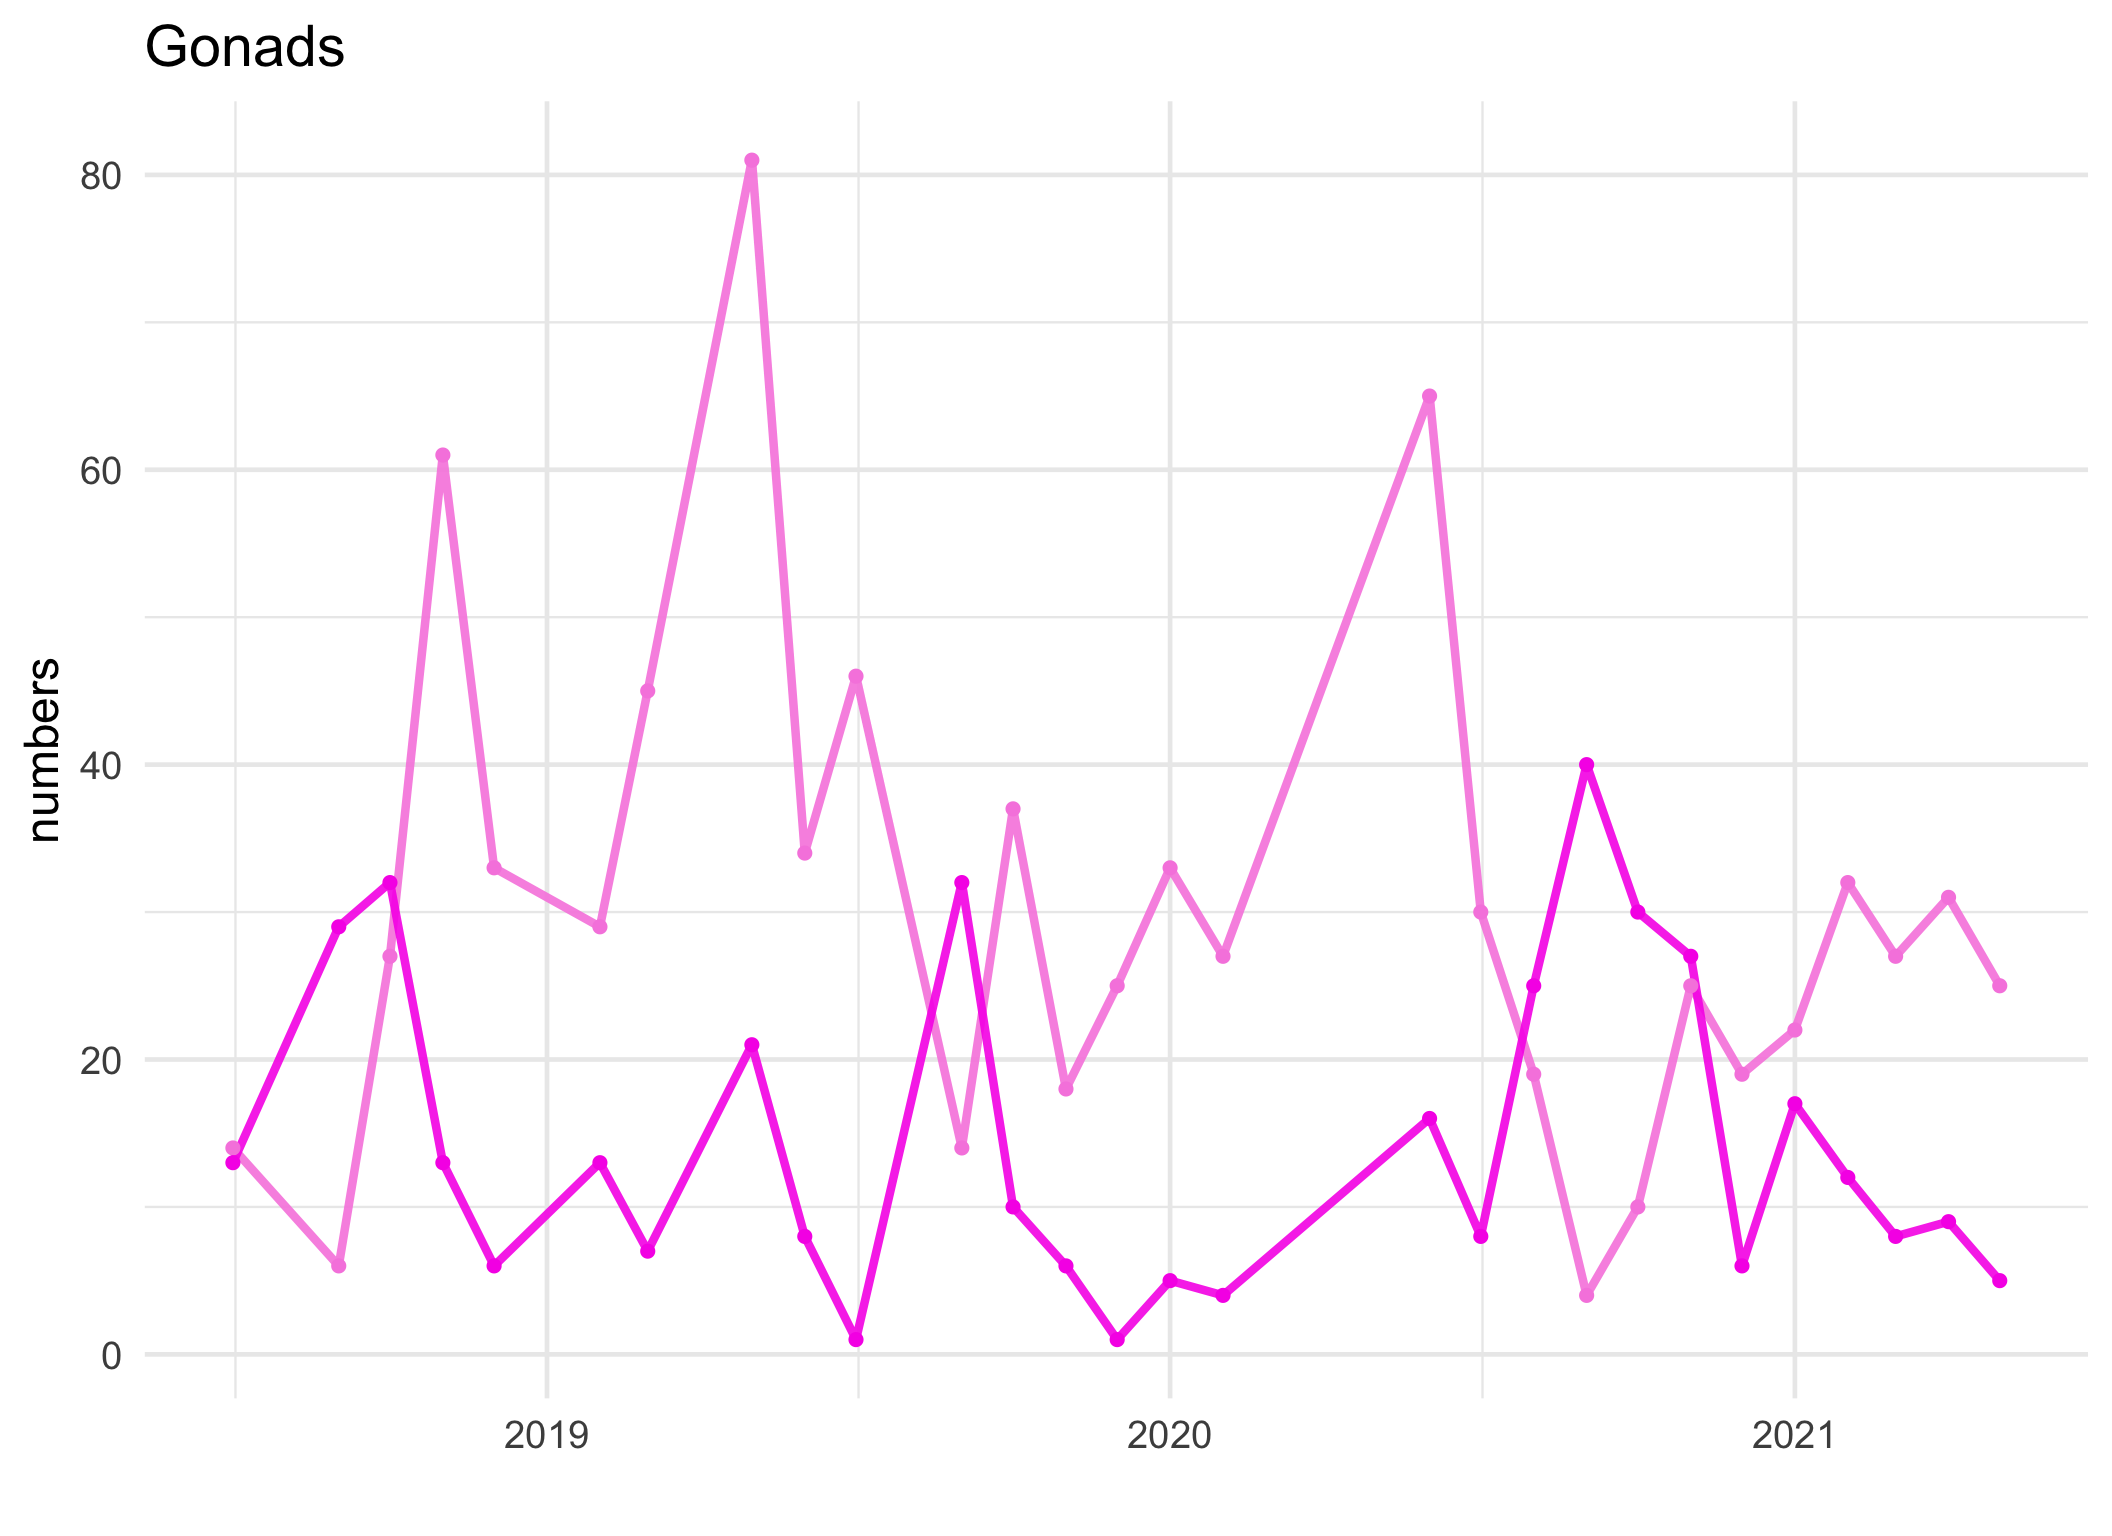
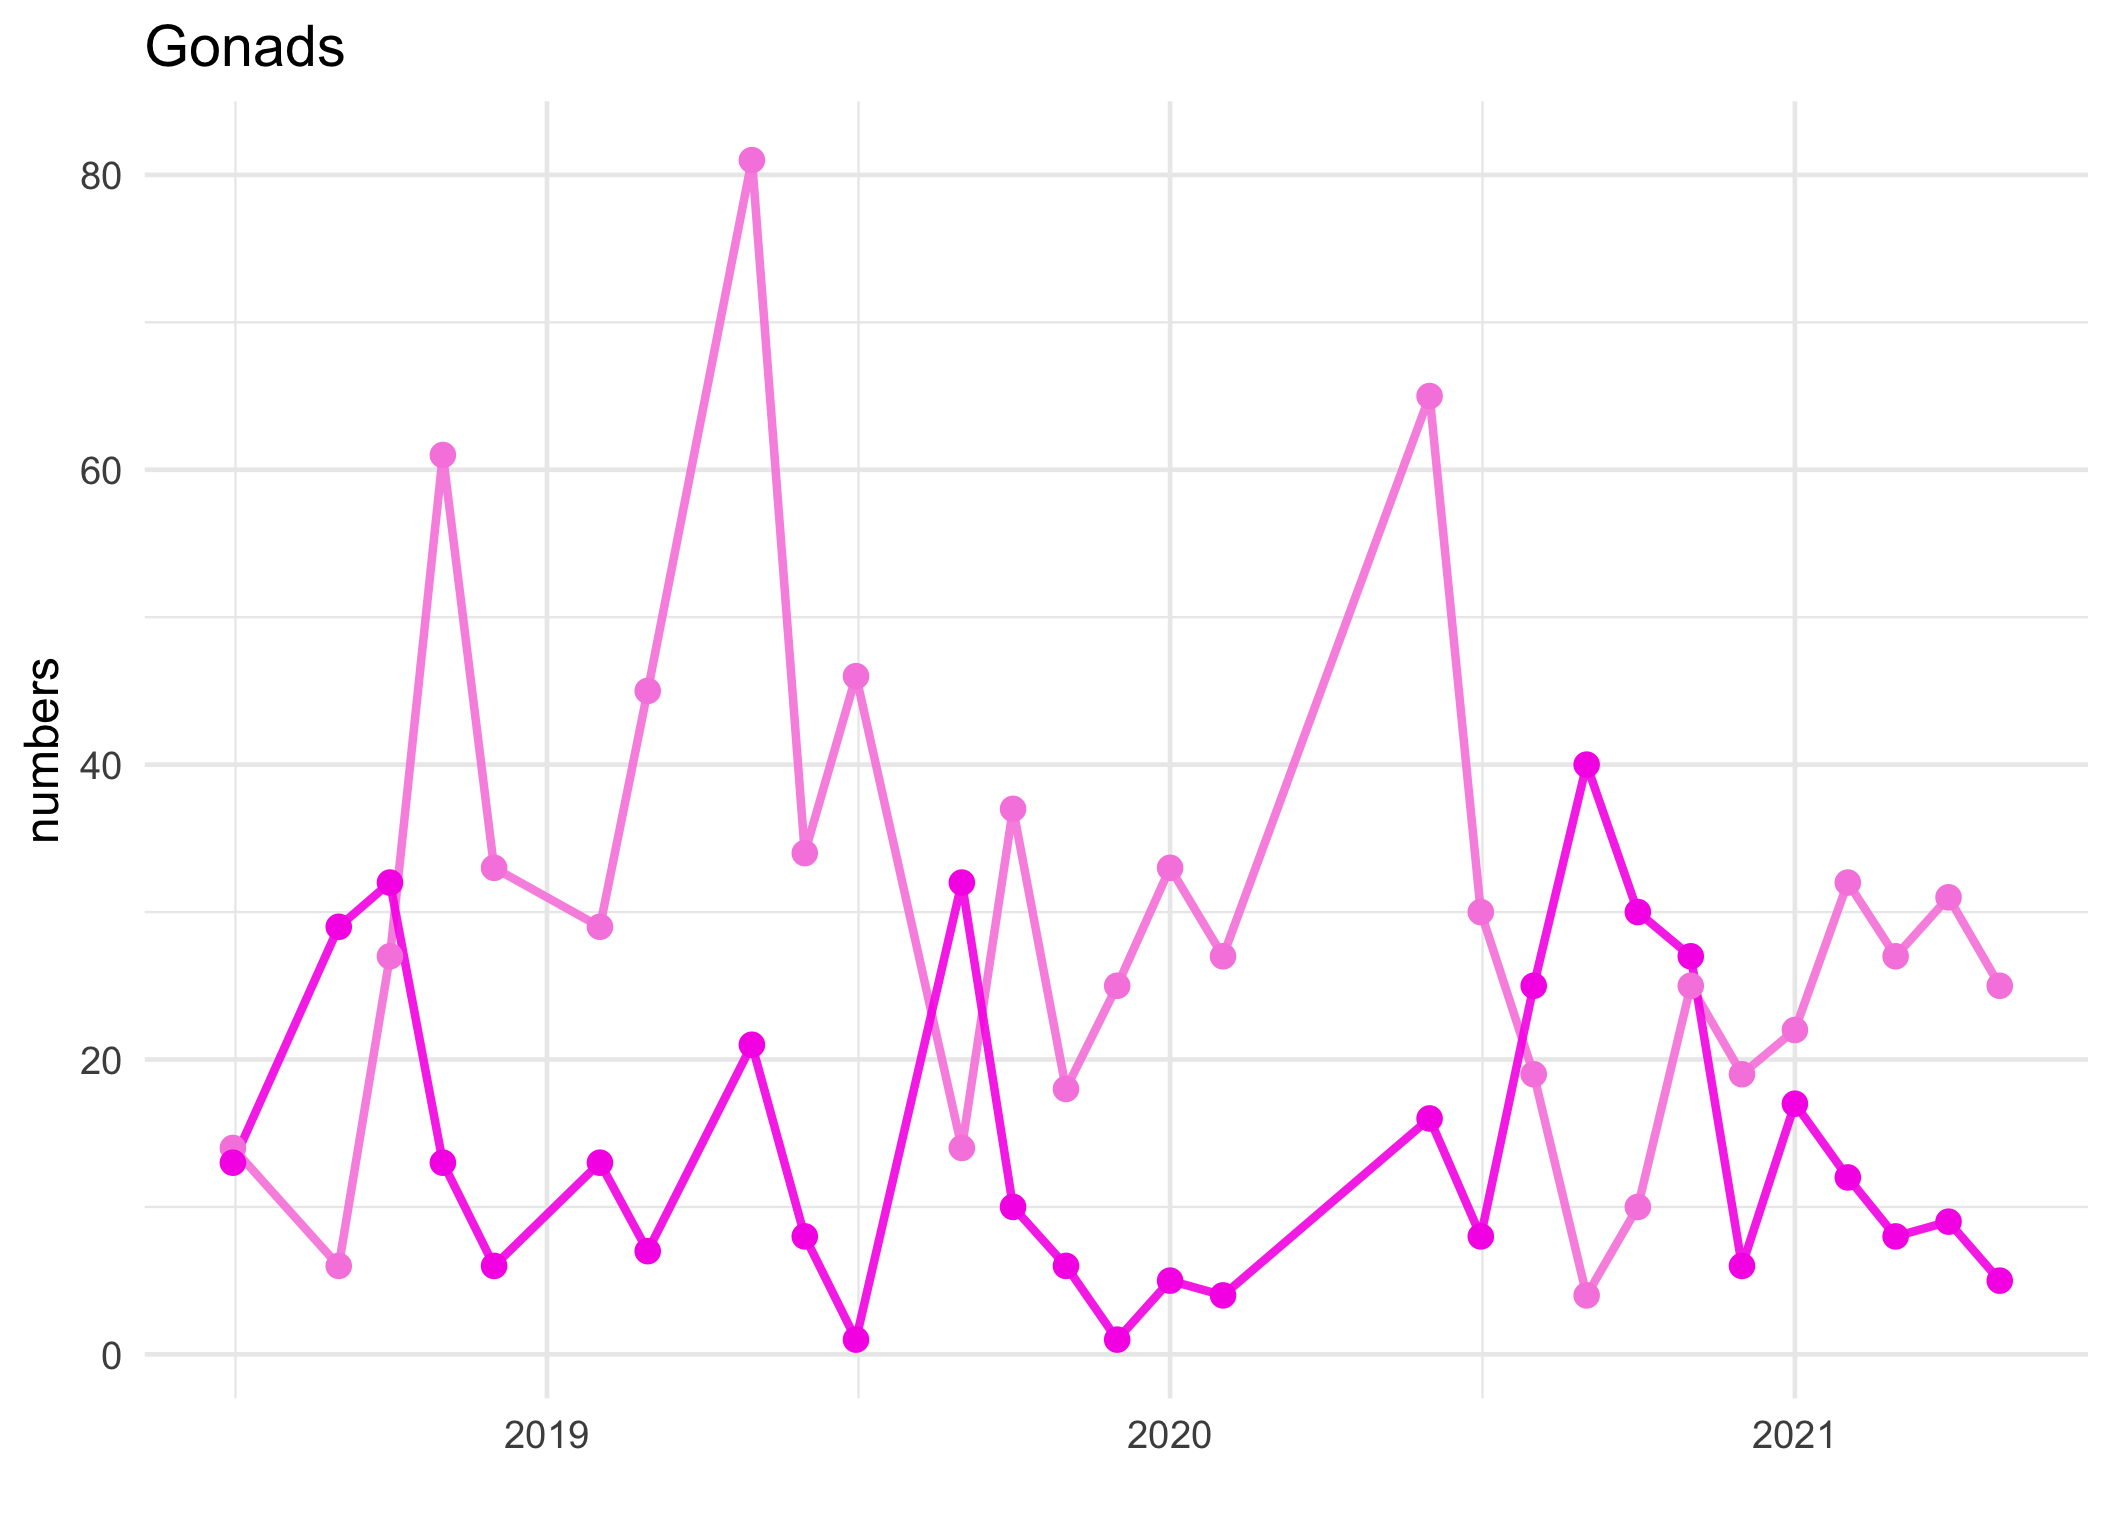
corretto codice gonadi

diff --git a/R-script/000.gambero2025.html b/R-script/000.gambero2025.html
@@ -553,9 +553,9 @@ $ peso.gonadi     &lt;dbl&gt; NA, NA, NA, NA, NA, NA, NA, NA, NA, NA, NA, NA, NA
 <span id="cb10-8"><a href="#cb10-8" aria-hidden="true" tabindex="-1"></a></span>
 <span id="cb10-9"><a href="#cb10-9" aria-hidden="true" tabindex="-1"></a>pc.f <span class="sc">%&gt;%</span> </span>
 <span id="cb10-10"><a href="#cb10-10" aria-hidden="true" tabindex="-1"></a>    <span class="fu">count</span>(date,gonadBin) <span class="sc">%&gt;%</span> </span>
-<span id="cb10-11"><a href="#cb10-11" aria-hidden="true" tabindex="-1"></a>    <span class="fu">ggplot</span>(<span class="fu">aes</span>(<span class="at">x=</span>date,<span class="at">y=</span>n, <span class="at">group=</span>gonadBin,<span class="at">col=</span>gonadBin)) <span class="sc">+</span></span>
+<span id="cb10-11"><a href="#cb10-11" aria-hidden="true" tabindex="-1"></a>    <span class="fu">ggplot</span>(<span class="fu">aes</span>(<span class="at">x=</span>date,<span class="at">y=</span>n, <span class="at">col=</span>gonadBin)) <span class="sc">+</span></span>
 <span id="cb10-12"><a href="#cb10-12" aria-hidden="true" tabindex="-1"></a>    <span class="fu">geom_line</span>(<span class="at">alpha=</span><span class="fl">0.9</span>, <span class="at">lwd=</span><span class="fl">1.5</span>) <span class="sc">+</span></span>
-<span id="cb10-13"><a href="#cb10-13" aria-hidden="true" tabindex="-1"></a>    <span class="fu">geom_point</span>(<span class="at">size=</span><span class="dv">2</span>) <span class="sc">+</span></span>
+<span id="cb10-13"><a href="#cb10-13" aria-hidden="true" tabindex="-1"></a>    <span class="fu">geom_point</span>(<span class="at">size=</span><span class="dv">4</span>) <span class="sc">+</span></span>
 <span id="cb10-14"><a href="#cb10-14" aria-hidden="true" tabindex="-1"></a>    <span class="fu">ggtitle</span>(<span class="st">'Gonads'</span>) <span class="sc">+</span> <span class="fu">ylab</span>(<span class="st">'numbers'</span>)<span class="sc">+</span> <span class="fu">xlab</span>(<span class="st">''</span>)<span class="sc">+</span></span>
 <span id="cb10-15"><a href="#cb10-15" aria-hidden="true" tabindex="-1"></a>    <span class="fu">scale_color_manual</span>(<span class="at">values =</span> <span class="fu">c</span>(<span class="st">'#f78ae0'</span>,<span class="st">'#f71ae8'</span>))<span class="sc">+</span></span>
 <span id="cb10-16"><a href="#cb10-16" aria-hidden="true" tabindex="-1"></a>    <span class="fu">theme</span>(<span class="at">legend.position =</span> <span class="st">'none'</span>)</span></code><button title="Copy to Clipboard" class="code-copy-button"><i class="bi"></i></button></pre></div>
